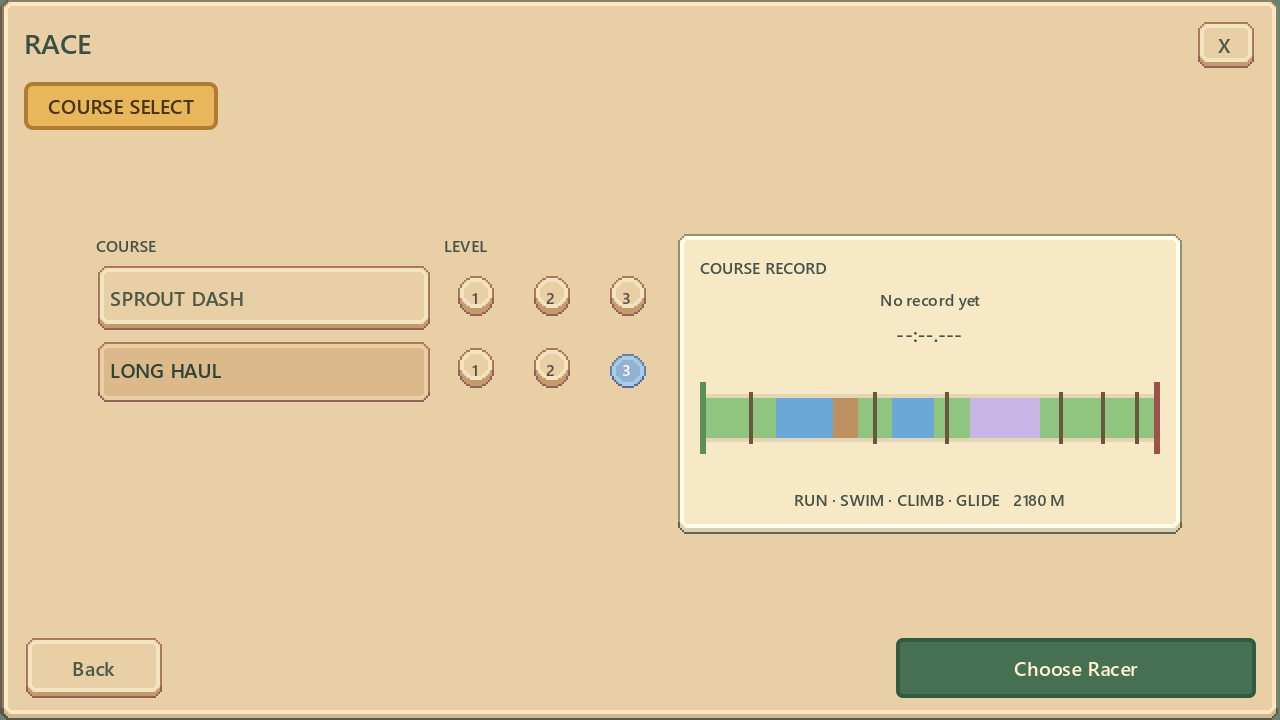
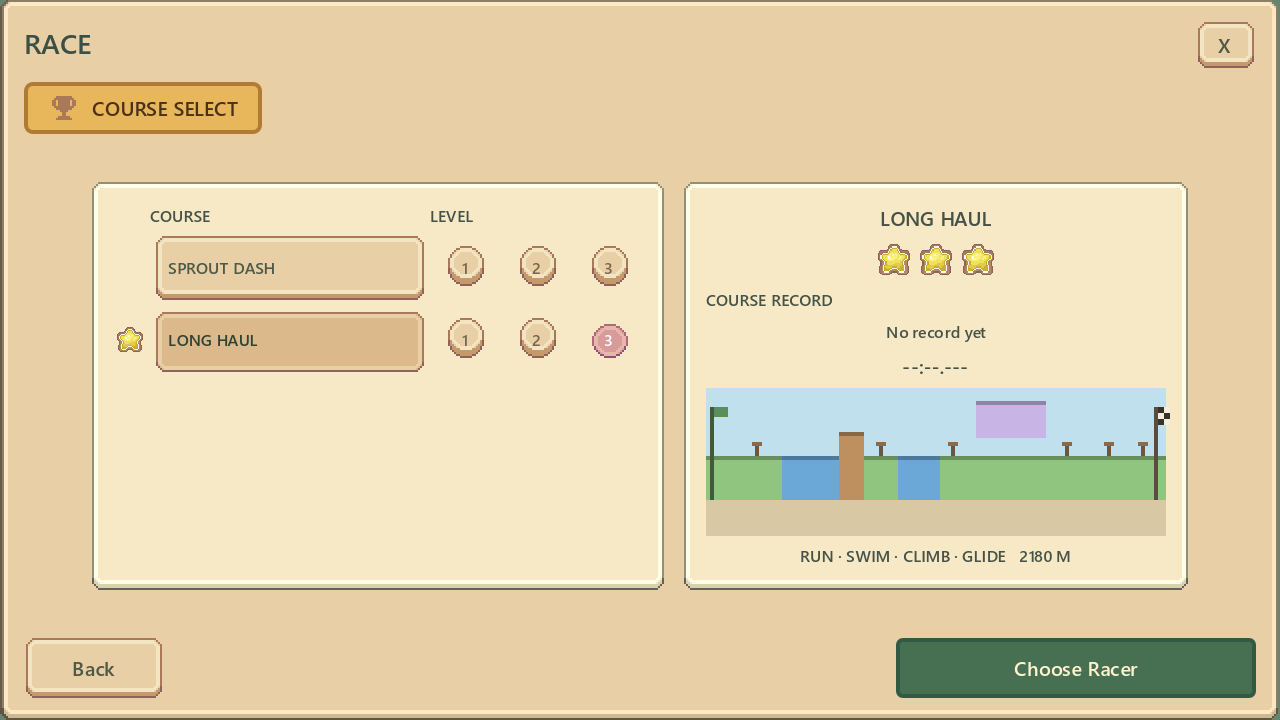
Warm up race entry with the premium art pass
The first Chao Garden build read as sterile. Difficulty pills now colour
code by tier from the round button sheet, the picked course and racer carry
the premium wooden star, and the level shows as a three star rating. Roster
paging uses the premium play glyph, the step banner carries the trophy, and
the course list moved onto its own paper card.

CourseMinimap draws sky over unbroken ground with a start post and a
checkered finish; a climb rises out of the ground and a glide floats above
it, so the miniature shows the shape of the course rather than a row of
coloured blocks.

No course identity, difficulty tier, record or simulation behaviour changed.

diff --git a/Scripts/Presentation/UI/Racing/RaceEntryScreen.cs b/Scripts/Presentation/UI/Racing/RaceEntryScreen.cs
@@ -71,6 +71,11 @@ public partial class RaceEntryScreen : Control
 
     private static readonly Texture2D RoundButtons = GD.Load<Texture2D>(
         UiFactory.UiRoot + "buttons/round/medium colored round buttons.png");
+    private static readonly Texture2D WoodStars = GD.Load<Texture2D>(
+        UiFactory.UiRoot + "Icons/special icons/stars in wood.png");
+
+    // Difficulty reads as colour before it reads as a number: calm green, warm yellow, hot red.
+    private static readonly int[] LevelColorRows = { 7, 9, 11 };
 
     /// <summary>Creature ID, course ID, course version, difficulty level.</summary>
     public event Action<string, string, int, int>? RaceRequested;
@@ -127,9 +132,19 @@ public partial class RaceEntryScreen : Control
         bannerStyle.ContentMarginLeft = 12;
         bannerStyle.ContentMarginRight = 12;
         banner.AddThemeStyleboxOverride("panel", bannerStyle);
+        var bannerRow = new HBoxContainer { MouseFilter = MouseFilterEnum.Ignore };
+        bannerRow.AddThemeConstantOverride("separation", 6);
+        bannerRow.AddChild(new TextureRect
+        {
+            Texture = UiFactory.CreateGardenIcon(13, 1),
+            CustomMinimumSize = new Vector2(16, 16),
+            StretchMode = TextureRect.StretchModeEnum.KeepAspectCentered,
+            MouseFilter = MouseFilterEnum.Ignore
+        });
         _stepTitle = UiFactory.CreateLabel(string.Empty, 10);
         _stepTitle.AddThemeColorOverride("font_color", Color.FromHtml("#4A3218"));
-        banner.AddChild(_stepTitle);
+        bannerRow.AddChild(_stepTitle);
+        banner.AddChild(bannerRow);
         column.AddChild(banner);
 
         var bodyHolder = new CenterContainer { SizeFlagsHorizontal = SizeFlags.ExpandFill, SizeFlagsVertical = SizeFlags.ExpandFill };
@@ -241,24 +256,28 @@ public partial class RaceEntryScreen : Control
 
     private Control BuildCourseStep()
     {
-        var row = new HBoxContainer { SizeFlagsHorizontal = SizeFlags.ExpandFill, SizeFlagsVertical = SizeFlags.ExpandFill };
+        var row = new HBoxContainer { SizeFlagsVertical = SizeFlags.ShrinkCenter };
         row.AddThemeConstantOverride("separation", 8);
 
-        var left = new VBoxContainer { SizeFlagsHorizontal = SizeFlags.ExpandFill, SizeFlagsVertical = SizeFlags.ExpandFill };
+        var listPanel = PaperPanel(new Vector2(268, 0));
+        listPanel.Name = "CourseListPanel";
+        var left = new VBoxContainer();
         left.AddThemeConstantOverride("separation", 4);
+        listPanel.AddChild(left);
+
         var headers = new HBoxContainer();
-        headers.AddThemeConstantOverride("separation", 6);
-        headers.AddChild(Header(Tr("UI_RACE_PICKER_COURSE"), 168));
-        headers.AddChild(Header(Tr("UI_RACE_LEVEL"), 108));
+        headers.AddThemeConstantOverride("separation", 4);
+        headers.AddChild(Header(string.Empty, 14));
+        headers.AddChild(Header(Tr("UI_RACE_PICKER_COURSE"), 136));
+        headers.AddChild(Header(Tr("UI_RACE_LEVEL"), 100));
         left.AddChild(headers);
 
-        var list = new VBoxContainer { Name = "CourseList", SizeFlagsHorizontal = SizeFlags.ExpandFill };
+        var list = new VBoxContainer { Name = "CourseList" };
         list.AddThemeConstantOverride("separation", 4);
         foreach (var course in _state!.Courses)
             list.AddChild(BuildCourseRow(course));
         left.AddChild(list);
-        left.AddChild(new Control { SizeFlagsVertical = SizeFlags.ExpandFill });
-        row.AddChild(left);
+        row.AddChild(listPanel);
 
         row.AddChild(BuildRecordPanel());
         return row;
@@ -267,15 +286,30 @@ public partial class RaceEntryScreen : Control
     private Control BuildCourseRow(RacePickerCourseViewState course)
     {
         var row = new HBoxContainer();
-        row.AddThemeConstantOverride("separation", 6);
+        row.AddThemeConstantOverride("separation", 4);
 
         var selected = CourseKey(course) == CourseKey(_selectedCourseId, _selectedCourseVersion);
+
+        // A gold star marks the picked course, so the row the record card is describing is obvious
+        // without having to read the button states.
+        row.AddChild(new TextureRect
+        {
+            Texture = new AtlasTexture { Atlas = WoodStars, Region = new Rect2(0, 0, 32, 32) },
+            CustomMinimumSize = new Vector2(16, 16),
+            ExpandMode = TextureRect.ExpandModeEnum.IgnoreSize,
+            StretchMode = TextureRect.StretchModeEnum.KeepAspectCentered,
+            SizeFlagsVertical = SizeFlags.ShrinkCenter,
+            Modulate = selected ? Colors.White : new Color(1, 1, 1, 0),
+            MouseFilter = MouseFilterEnum.Ignore
+        });
+
         var name = UiFactory.CreateButton(course.Name);
         name.Name = "Course_" + course.Id;
         name.ToggleMode = true;
         name.ButtonPressed = selected;
-        name.CustomMinimumSize = new Vector2(168, 28);
+        name.CustomMinimumSize = new Vector2(136, 30);
         name.Alignment = HorizontalAlignment.Left;
+        UiFactory.ApplyPixelFont(name, 8);
         name.Pressed += () =>
         {
             _selectedCourseId = course.Id;
@@ -315,7 +349,7 @@ public partial class RaceEntryScreen : Control
             CustomMinimumSize = new Vector2(32, 32),
             FocusMode = FocusModeEnum.All
         };
-        var colorRow = active ? 5 : 1;
+        var colorRow = active ? LevelColorRows[Mathf.Clamp(level, MinLevel, MaxLevel) - 1] : 1;
         foreach (var (state, column) in new[] { ("normal", 0), ("hover", 1), ("pressed", 2), ("hover_pressed", 2), ("focus", 1) })
         {
             button.AddThemeStyleboxOverride(state, new StyleBoxTexture
@@ -330,7 +364,7 @@ public partial class RaceEntryScreen : Control
             });
         }
         UiFactory.ApplyPixelFont(button, 8);
-        button.AddThemeColorOverride("font_color", Color.FromHtml(active ? "#F4F7FF" : "#5B4C40"));
+        button.AddThemeColorOverride("font_color", Color.FromHtml(active ? "#3A2C18" : "#7A6650"));
         button.AddThemeColorOverride("font_hover_color", Colors.White);
         button.AddThemeColorOverride("font_pressed_color", Colors.White);
         return button;
@@ -346,6 +380,10 @@ public partial class RaceEntryScreen : Control
         panel.AddChild(box);
 
         var course = SelectedCourse();
+        var title = UiFactory.CreateLabel(course.Name, 10);
+        title.HorizontalAlignment = HorizontalAlignment.Center;
+        box.AddChild(title);
+        box.AddChild(BuildStarRating(_level));
         box.AddChild(Header(Tr("UI_RACE_COURSE_RECORD"), 0));
         var record = Record(course, _level);
         var holder = UiFactory.CreateLabel(
@@ -358,7 +396,7 @@ public partial class RaceEntryScreen : Control
         time.HorizontalAlignment = HorizontalAlignment.Center;
         box.AddChild(time);
 
-        box.AddChild(BuildMinimap(course, new Vector2(230, 62)));
+        box.AddChild(BuildMinimap(course, new Vector2(230, 74)));
         var detail = UiFactory.CreateLabel(
             $"{string.Join(" · ", course.Sections)}   {course.LengthMeters} M", 6);
         detail.HorizontalAlignment = HorizontalAlignment.Center;
@@ -411,6 +449,18 @@ public partial class RaceEntryScreen : Control
             // Three rows have to fit above the footer, so the card keeps only the height its
             // portrait and name actually need.
             entry.CustomMinimumSize = new Vector2(84, 72);
+            if (creature.Id == _selectedId)
+            {
+                card.AddChild(new TextureRect
+                {
+                    Texture = new AtlasTexture { Atlas = WoodStars, Region = new Rect2(0, 0, 32, 32) },
+                    Position = new Vector2(60, 1),
+                    Size = new Vector2(17, 17),
+                    ExpandMode = TextureRect.ExpandModeEnum.IgnoreSize,
+                    StretchMode = TextureRect.StretchModeEnum.KeepAspectCentered,
+                    MouseFilter = MouseFilterEnum.Ignore
+                });
+            }
             grid.AddChild(entry);
         }
         // Empty slots stay drawn so the roster keeps a stable 3x3 shape however many Voidlings a
@@ -449,12 +499,20 @@ public partial class RaceEntryScreen : Control
 
     private Button BuildPageArrow(string name, int delta, int pages)
     {
-        var button = UiFactory.CreateButton(delta < 0 ? "<" : ">");
+        var button = UiFactory.CreateButton(string.Empty);
         button.Name = name;
-        button.CustomMinimumSize = new Vector2(22, 34);
+        button.CustomMinimumSize = new Vector2(24, 36);
         button.SizeFlagsVertical = SizeFlags.ShrinkCenter;
         button.Disabled = pages <= 1;
-        UiFactory.ApplyPixelFont(button, 9);
+        button.AddChild(new TextureRect
+        {
+            Texture = UiFactory.CreateGardenIcon(13, 3),
+            FlipH = delta < 0,
+            CustomMinimumSize = new Vector2(24, 36),
+            StretchMode = TextureRect.StretchModeEnum.KeepAspectCentered,
+            MouseFilter = MouseFilterEnum.Ignore,
+            Modulate = new Color(1, 1, 1, pages <= 1 ? 0.35f : 1.0f)
+        });
         button.Pressed += () =>
         {
             _racerPage = (_racerPage + delta + pages) % pages;
@@ -518,9 +576,14 @@ public partial class RaceEntryScreen : Control
             MaxValue = 1,
             Value = stat.Progress,
             ShowPercentage = false,
-            CustomMinimumSize = new Vector2(0, 5)
+            CustomMinimumSize = new Vector2(0, 7)
         };
-        var background = new StyleBoxFlat { BgColor = Color.FromHtml("#C5B798") };
+        var background = new StyleBoxFlat
+        {
+            BgColor = Color.FromHtml("#C5B798"),
+            BorderColor = Color.FromHtml("#8A7A5A")
+        };
+        background.SetBorderWidthAll(1);
         var fill = new StyleBoxFlat { BgColor = PaperInk(stat.Color) };
         background.SetCornerRadiusAll(1);
         fill.SetCornerRadiusAll(1);
@@ -552,7 +615,8 @@ public partial class RaceEntryScreen : Control
         var levelLine = UiFactory.CreateLabel(string.Format(Tr("UI_RACE_LEVEL_VALUE"), _level), 8);
         levelLine.HorizontalAlignment = HorizontalAlignment.Center;
         courseBox.AddChild(levelLine);
-        courseBox.AddChild(BuildMinimap(course, new Vector2(284, 76)));
+        courseBox.AddChild(BuildStarRating(_level));
+        courseBox.AddChild(BuildMinimap(course, new Vector2(284, 84)));
         var detail = UiFactory.CreateLabel(
             $"{string.Join(" · ", course.Sections)}   {course.LengthMeters} M", 6);
         detail.HorizontalAlignment = HorizontalAlignment.Center;
@@ -577,6 +641,28 @@ public partial class RaceEntryScreen : Control
         var map = new CourseMinimap { Name = "Minimap", CustomMinimumSize = size, MouseFilter = MouseFilterEnum.Ignore };
         map.SetCourse(course.StartX, course.EndX, course.Segments, course.Obstacles);
         return map;
+    }
+
+    /// <summary>
+    /// Difficulty as filled and empty wooden stars from the premium icon pack, so a level reads as
+    /// a rating rather than only a number.
+    /// </summary>
+    private static Control BuildStarRating(int level)
+    {
+        var row = new HBoxContainer { Name = "StarRating", Alignment = BoxContainer.AlignmentMode.Center, MouseFilter = MouseFilterEnum.Ignore };
+        row.AddThemeConstantOverride("separation", 1);
+        for (var star = MinLevel; star <= MaxLevel; star++)
+        {
+            row.AddChild(new TextureRect
+            {
+                Texture = new AtlasTexture { Atlas = WoodStars, Region = new Rect2(star <= level ? 0 : 32, 0, 32, 32) },
+                CustomMinimumSize = new Vector2(20, 20),
+                ExpandMode = TextureRect.ExpandModeEnum.IgnoreSize,
+                StretchMode = TextureRect.StretchModeEnum.KeepAspectCentered,
+                MouseFilter = MouseFilterEnum.Ignore
+            });
+        }
+        return row;
     }
 
     /// <summary>The window's warm paper, one shade lighter, so a card reads as part of the same sheet.</summary>

diff --git a/Scripts/Presentation/UI/Racing/CourseMinimap.cs b/Scripts/Presentation/UI/Racing/CourseMinimap.cs
@@ -50,32 +50,66 @@ public partial class CourseMinimap : Control
         var height = Size.Y;
         if (width <= 1.0f || height <= 1.0f) return;
 
-        var trackTop = height * 0.34f;
-        var trackHeight = Mathf.Max(6.0f, height * 0.32f);
-        DrawRect(new Rect2(0, trackTop - 2.0f, width, trackHeight + 4.0f), Color.FromHtml("#E4D6B4"));
+        // Sky over ground rather than a bare strip, so the miniature reads as the side-on course
+        // the player is about to run instead of a progress bar.
+        var trackTop = height * 0.46f;
+        var trackHeight = Mathf.Max(7.0f, height * 0.30f);
+        DrawRect(new Rect2(0, 0, width, trackTop), Color.FromHtml("#BFE0EC"));
+        DrawRect(new Rect2(0, trackTop + trackHeight, width, height - trackTop - trackHeight), Color.FromHtml("#D8C8A4"));
 
         foreach (var segment in _segments)
         {
             var left = Fraction(segment.StartX) * width;
-            var right = Fraction(segment.EndX) * width;
+            var span = Mathf.Max(1.0f, Fraction(segment.EndX) * width - left);
             var color = KindColors.TryGetValue(segment.Kind, out var kindColor) ? kindColor : KindColors["Ground"];
-            DrawRect(new Rect2(left, trackTop, Mathf.Max(1.0f, right - left), trackHeight), color);
+
+            // The ground runs unbroken beneath the whole course. A climb rises out of it and a glide
+            // floats over it, so the strip shows elevation instead of a flat colour sequence.
+            var groundColor = segment.Kind == "Glide" ? KindColors["Ground"] : color;
+            var top = segment.Kind == "Climb" ? trackTop - trackHeight * 0.55f : trackTop;
+            var tall = segment.Kind == "Climb" ? trackHeight * 1.55f : trackHeight;
+            DrawRect(new Rect2(left, top, span, tall), groundColor);
+            DrawRect(new Rect2(left, top, span, 2.0f), groundColor.Darkened(0.28f));
+
+            if (segment.Kind != "Glide") continue;
+            var glideTop = trackTop - trackHeight * 1.25f;
+            DrawRect(new Rect2(left, glideTop, span, trackHeight * 0.85f), color);
+            DrawRect(new Rect2(left, glideTop, span, 2.0f), color.Darkened(0.28f));
         }
 
         foreach (var obstacle in _obstacles)
         {
             var x = Fraction(obstacle) * width;
-            DrawRect(new Rect2(x - 1.0f, trackTop - 3.0f, 2.0f, trackHeight + 6.0f), Color.FromHtml("#6B573F"));
+            DrawRect(new Rect2(x - 1.0f, trackTop - 5.0f, 2.0f, 5.0f), Color.FromHtml("#6B573F"));
+            DrawRect(new Rect2(x - 2.5f, trackTop - 7.0f, 5.0f, 2.0f), Color.FromHtml("#8A6A4B"));
         }
 
-        // Start and finish posts bracket the strip so the reading direction is unambiguous.
-        DrawFlag(0.0f, trackTop, trackHeight, Color.FromHtml("#5B8F5A"));
-        DrawFlag(width - 3.0f, trackTop, trackHeight, Color.FromHtml("#9C514B"));
+        DrawPost(2.0f, trackTop, trackHeight, Color.FromHtml("#5B8F5A"));
+        DrawFinish(width - 6.0f, trackTop, trackHeight);
     }
 
-    private void DrawFlag(float x, float trackTop, float trackHeight, Color color)
+    // A checkered flag closes the strip, the way the finish reads on the real track.
+    private void DrawFinish(float x, float trackTop, float trackHeight)
     {
-        DrawRect(new Rect2(x, trackTop - 8.0f, 3.0f, trackHeight + 16.0f), color);
+        var top = trackTop - trackHeight * 1.1f;
+        DrawRect(new Rect2(x, top, 2.0f, trackHeight * 2.1f), Color.FromHtml("#5B4C40"));
+        const float cell = 3.0f;
+        for (var rowIndex = 0; rowIndex < 3; rowIndex++)
+        {
+            for (var columnIndex = 0; columnIndex < 2; columnIndex++)
+            {
+                var dark = (rowIndex + columnIndex) % 2 == 0;
+                DrawRect(
+                    new Rect2(x + 2.0f + columnIndex * cell, top + rowIndex * cell, cell, cell),
+                    dark ? Color.FromHtml("#3B322A") : Color.FromHtml("#F4EEDC"));
+            }
+        }
+    }
+
+    private void DrawPost(float x, float trackTop, float trackHeight, Color color)
+    {
+        DrawRect(new Rect2(x, trackTop - trackHeight * 1.1f, 2.0f, trackHeight * 2.1f), color.Darkened(0.35f));
+        DrawRect(new Rect2(x + 2.0f, trackTop - trackHeight * 1.1f, 7.0f, 5.0f), color);
     }
 
     private float Fraction(float x) => Mathf.Clamp((x - _startX) / (_endX - _startX), 0.0f, 1.0f);

diff --git a/docs/UI_UX_IMPLEMENTATION_PLAN.md b/docs/UI_UX_IMPLEMENTATION_PLAN.md
@@ -273,3 +273,22 @@ Verified with Debug and Release builds, 241 tests (four new ones cover the diffi
 record keeping), architecture/localization checks, `git diff --check`, Godot import and main-scene
 runtime, and the Garden UI, Voidling visual, race presentation, race completion, family tree and
 persistence recovery probes.
+
+### Race entry visual pass
+
+The first Chao-Garden build read as correct but sterile, so a second pass leans harder on the
+premium packs:
+
+- The step banner carries the premium trophy glyph.
+- Difficulty pills colour-code by tier from the round-button sheet — green, yellow, red — instead of
+  one flat blue, so difficulty reads before the number does.
+- The picked course and the picked racer are both marked with the premium wooden star, and the level
+  is shown as a filled/empty three-star rating on the record card and the confirmation.
+- Roster paging uses the premium play glyph, mirrored for the left arrow, rather than typed brackets.
+- The course list moved onto its own paper card so the screen reads as two cards rather than one
+  blank sheet, and the stat gauges gained an outline.
+- `CourseMinimap` now draws sky over unbroken ground with a start post and a checkered finish; a
+  climb rises out of the ground and a glide floats above it, so the miniature shows the shape of the
+  course instead of a row of coloured blocks.
+
+Nothing about course identity, difficulty tiers, records or the race itself changed in this pass.
